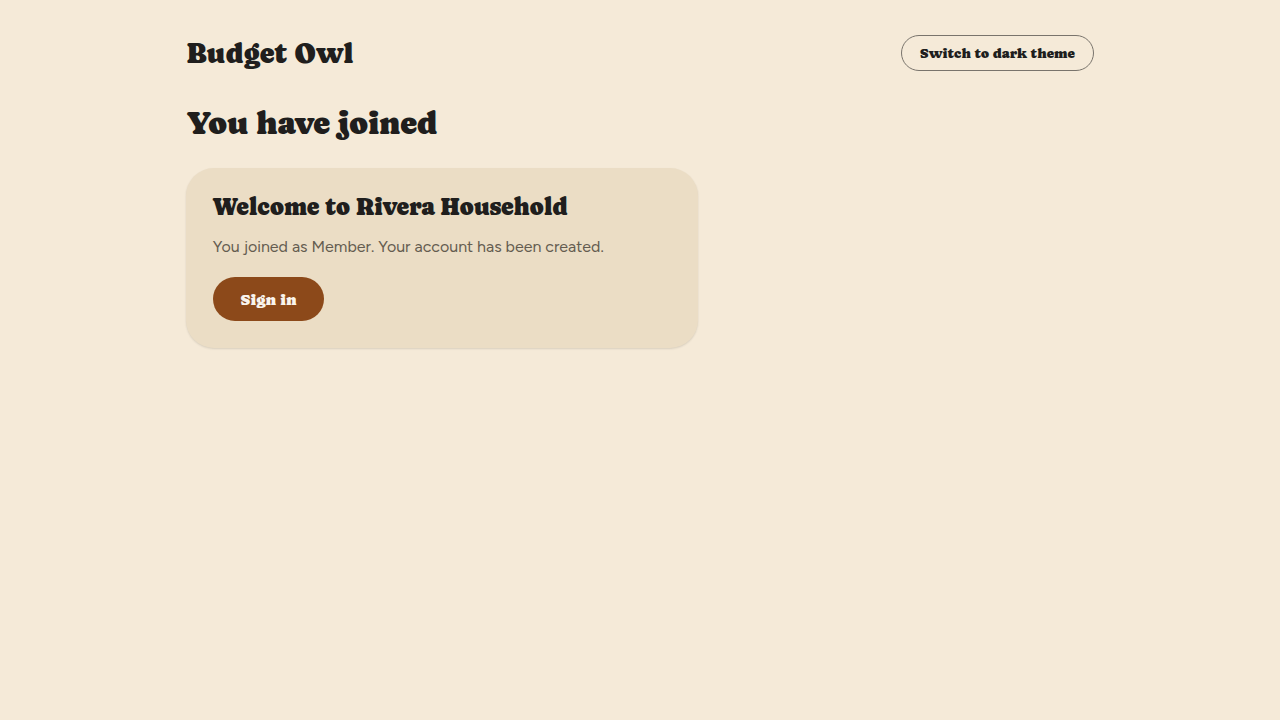
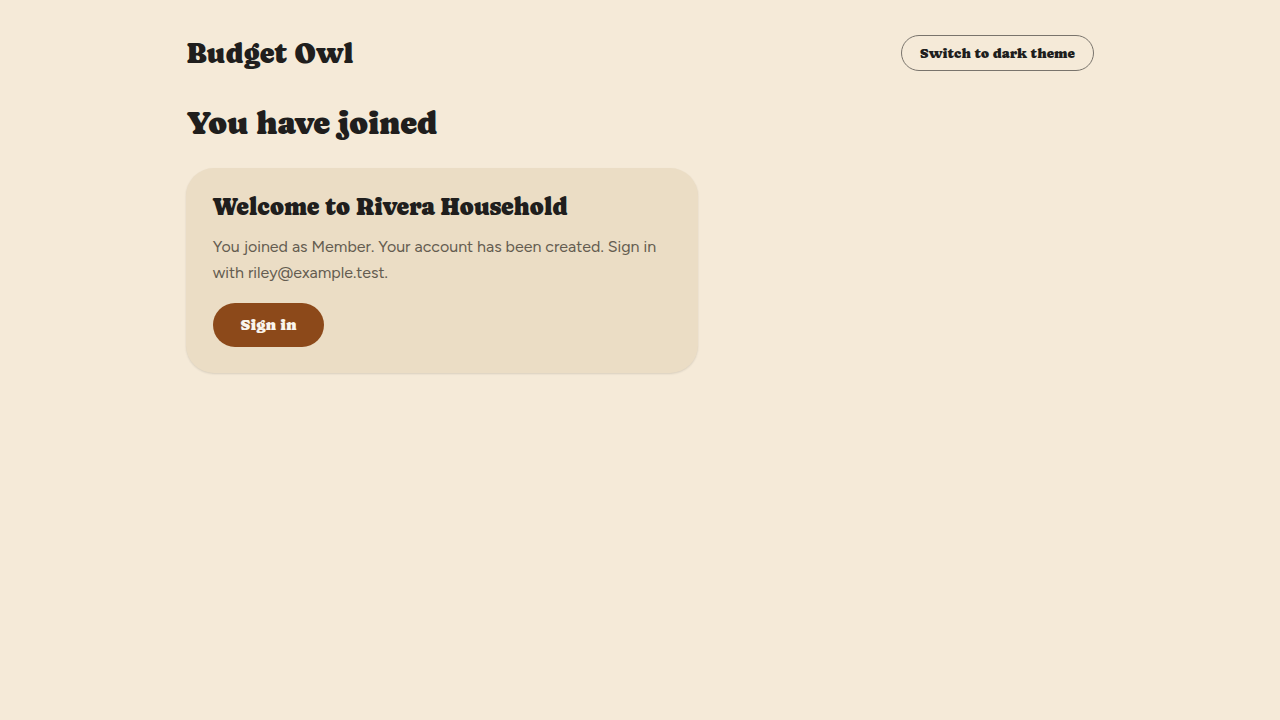
fix(invitations): tell the joiner the address they sign in with
The invite form called the email "just a label ... the link, not the address,
is what lets someone join". Only the second half was true. InvitationService
passes that address straight to register(), so for anyone without an account
it becomes their sign-in identity. A typo therefore created a correctly-working
account at an address its owner had never heard of — and nothing anywhere told
them what it was, because there is no email delivery to tell them.

The user guide had already papered over this: it instructed readers to "ask the
person who invited you which address they typed". Prose apologising for a screen
is a defect report.

So: say what the field does, and return the address on accept. It comes from the
account rather than the invitation, so what the joiner is shown is what actually
signs in. It is disclosed only after a token has been consumed by a successful
accept, which tells a new member their own address and nobody else anything.

Also corrects the UI fixtures' problem-type URLs, still on the old
budgetapp.dev prefix that ApiProblem moved off; the UI matches on `code`,
so this was invisible but wrong.

Claude-Session: https://claude.ai/code/session_01BMPoKK1PtTMREaQDiH8q8J

Changed region(s): [[0.1562, 0.3667, 0.3125, 0.4889], [0.4688, 0.3361, 0.5, 0.3667]]

diff --git a/tools/ui/fixtures/demo-data.ts b/tools/ui/fixtures/demo-data.ts
@@ -162,13 +162,13 @@ export const DEMO_TOKENS = {
 
 /** The RFC 7807 bodies the API sends, by stable code. The client renders the sentence. */
 export const DEMO_PROBLEMS = {
-  authenticationFailed: { type: 'https://budgetapp.dev/errors/authentication-failed', title: 'Authentication failed', status: 401, code: 'authentication-failed', correlationId: 'demo0000000000000000000000000001' },
-  notAuthenticated: { type: 'https://budgetapp.dev/errors/not-authenticated', title: 'Not authenticated', status: 401, code: 'not-authenticated', correlationId: 'demo0000000000000000000000000002' },
-  notAMember: { type: 'https://budgetapp.dev/errors/not-a-member', title: 'Not a member of this household', status: 403, code: 'not-a-member', correlationId: 'demo0000000000000000000000000003' },
-  invitationUnusable: { type: 'https://budgetapp.dev/errors/invitation-unusable', title: 'This invitation cannot be used', status: 404, code: 'invitation-unusable', correlationId: 'demo0000000000000000000000000004' },
-  lastOwner: { type: 'https://budgetapp.dev/errors/last-owner', title: 'A household must keep at least one owner', status: 409, code: 'last-owner', correlationId: 'demo0000000000000000000000000005' },
-  rateLimited: { type: 'https://budgetapp.dev/errors/rate-limited', title: 'Too many attempts', status: 429, code: 'rate-limited', params: { retryAfterSeconds: 120 }, correlationId: 'demo0000000000000000000000000006' },
-  internal: { type: 'https://budgetapp.dev/errors/internal-error', title: 'Internal error', status: 500, code: 'internal-error', correlationId: 'demo0000000000000000000000000007' },
+  authenticationFailed: { type: 'https://budgetowl.app/errors/authentication-failed', title: 'Authentication failed', status: 401, code: 'authentication-failed', correlationId: 'demo0000000000000000000000000001' },
+  notAuthenticated: { type: 'https://budgetowl.app/errors/not-authenticated', title: 'Not authenticated', status: 401, code: 'not-authenticated', correlationId: 'demo0000000000000000000000000002' },
+  notAMember: { type: 'https://budgetowl.app/errors/not-a-member', title: 'Not a member of this household', status: 403, code: 'not-a-member', correlationId: 'demo0000000000000000000000000003' },
+  invitationUnusable: { type: 'https://budgetowl.app/errors/invitation-unusable', title: 'This invitation cannot be used', status: 404, code: 'invitation-unusable', correlationId: 'demo0000000000000000000000000004' },
+  lastOwner: { type: 'https://budgetowl.app/errors/last-owner', title: 'A household must keep at least one owner', status: 409, code: 'last-owner', correlationId: 'demo0000000000000000000000000005' },
+  rateLimited: { type: 'https://budgetowl.app/errors/rate-limited', title: 'Too many attempts', status: 429, code: 'rate-limited', params: { retryAfterSeconds: 120 }, correlationId: 'demo0000000000000000000000000006' },
+  internal: { type: 'https://budgetowl.app/errors/internal-error', title: 'Internal error', status: 500, code: 'internal-error', correlationId: 'demo0000000000000000000000000007' },
 } as const;
 
 export const DEMO_ACCOUNTS = [

diff --git a/frontend/src/app/features/join/pages/join.page.spec.ts b/frontend/src/app/features/join/pages/join.page.spec.ts
@@ -134,7 +134,7 @@ describe('JoinPage', () => {
   it('asks the server to accept with the token from the link, and shows the new member where to go next', async () => {
     const fixture = await render();
     const root = fixture.nativeElement as HTMLElement;
-    accept.mockReturnValue(of({ householdId: 'h', householdName: 'Rivera Household', role: 'MEMBER', userCreated: true }));
+    accept.mockReturnValue(of({ householdId: 'h', householdName: 'Rivera Household', role: 'MEMBER', userCreated: true, email: 'chris@example.com' }));
     typeInto(root, '#join-name', 'Riley Okafor');
     typeInto(root, '#join-password', 'a long fixture passphrase');
 
@@ -144,13 +144,15 @@ describe('JoinPage', () => {
     expect(accept).toHaveBeenCalledWith('tok-123', { displayName: 'Riley Okafor', password: PASSPHRASE });
     expect(root.textContent).toContain('Welcome to Rivera Household');
     expect(root.textContent).toContain('Your account has been created.');
+    // Nothing emails the address to them; this screen is where they learn what to sign in with.
+    expect(root.textContent).toContain('chris@example.com');
     expect(root.querySelector('a[href="/login?reason=joined"]')).not.toBeNull();
     expect(root.textContent).not.toContain('tok-123');
   });
 
   it('lets an existing user accept with both fields empty', async () => {
     const fixture = await render();
-    accept.mockReturnValue(of({ householdId: 'h', householdName: 'Rivera Household', role: 'VIEWER', userCreated: false }));
+    accept.mockReturnValue(of({ householdId: 'h', householdName: 'Rivera Household', role: 'VIEWER', userCreated: false, email: 'chris@example.com' }));
 
     buttonNamed(fixture.nativeElement, 'Accept and join').click();
     await settle(fixture);

diff --git a/tools/ui/helpers/mock-api.ts b/tools/ui/helpers/mock-api.ts
@@ -125,9 +125,9 @@ export async function mockApi(page: Page, options: MockOptions = {}): Promise<Ap
       const token = decodeURIComponent(accept[1]);
       if (token === DEMO_TOKENS.unusable) return problem(route, DEMO_PROBLEMS.invitationUnusable);
       if (token === DEMO_TOKENS.newAccount && !field('password')) {
-        return json(route, 400, { type: 'https://budgetapp.dev/errors/validation-failed', title: 'Validation failed', status: 400, code: 'validation-failed', params: { fields: ['displayName', 'password'] }, correlationId: 'demo0000000000000000000000000008' }, 'application/problem+json');
+        return json(route, 400, { type: 'https://budgetowl.app/errors/validation-failed', title: 'Validation failed', status: 400, code: 'validation-failed', params: { fields: ['displayName', 'password'] }, correlationId: 'demo0000000000000000000000000008' }, 'application/problem+json');
       }
-      return json(route, 200, { householdId: DEMO_HOUSEHOLD.id, householdName: DEMO_HOUSEHOLD.name, role: 'MEMBER', userCreated: Boolean(field('password')) });
+      return json(route, 200, { householdId: DEMO_HOUSEHOLD.id, householdName: DEMO_HOUSEHOLD.name, role: 'MEMBER', userCreated: Boolean(field('password')), email: DEMO_INVITATION.email });
     }
     if (at === 'POST /api/households/current/invitations') {
       return json(route, 201, { ...DEMO_INVITATION, email: field('email') ?? DEMO_INVITATION.email, role: field('role') ?? DEMO_INVITATION.role });

diff --git a/tools/ui/specs/docs/authentication-and-households.spec.ts b/tools/ui/specs/docs/authentication-and-households.spec.ts
@@ -66,7 +66,7 @@ test('@doc sign in, rate limited and expired', async ({ page, doc }) => {
             status: 429,
             contentType: 'application/problem+json',
             headers: { 'Retry-After': '120' },
-            body: JSON.stringify({ type: 'https://budgetapp.dev/errors/rate-limited', title: 'Too many attempts', status: 429, code: 'rate-limited', params: { retryAfterSeconds: 120 }, correlationId: 'demo0000000000000000000000000006' }),
+            body: JSON.stringify({ type: 'https://budgetowl.app/errors/rate-limited', title: 'Too many attempts', status: 429, code: 'rate-limited', params: { retryAfterSeconds: 120 }, correlationId: 'demo0000000000000000000000000006' }),
         }),
     );
     await page.goto('/login');

diff --git a/frontend/src/app/features/join/data/join.models.ts b/frontend/src/app/features/join/data/join.models.ts
@@ -18,4 +18,10 @@ export interface AcceptedInvitation {
   householdName: string;
   role: HouseholdRole;
   userCreated: boolean;
+  /**
+   * The address of the account now in the household. Shown to a joiner who was just registered:
+   * the inviter typed it, nothing emails it to them, so this screen is the only place they learn
+   * what to sign in with.
+   */
+  email: string;
 }

diff --git a/frontend/src/app/features/join/pages/join.page.html b/frontend/src/app/features/join/pages/join.page.html
@@ -12,7 +12,7 @@
       <p class="card-note">
         {{ 'join.joinedRole' | t: { role: (roleKey[done.role] | t) } }}
         @if (done.userCreated) {
-          {{ 'join.joinedAccountCreated' | t }}
+          {{ 'join.joinedAccountCreated' | t: { email: done.email } }}
         }
       </p>
       <a class="btn btn-primary" routerLink="/login" [queryParams]="{ reason: 'joined' }">{{

diff --git a/backend/src/test/java/com/budgetowl/api/InvitationIT.java b/backend/src/test/java/com/budgetowl/api/InvitationIT.java
@@ -69,7 +69,36 @@ class InvitationIT extends ApiTestBase {
         assertThat(response.status()).isEqualTo(200);
         assertThat(response.stringField("role")).isEqualTo("VIEWER");
         assertThat(response.body()).contains("\"userCreated\":true");
-        assertThat(signIn(JOINER_EMAIL, JOINER_SECRET).get("/api/households/current").status())
+
+        // The joiner is told which address to sign in with, and that address is the one that
+        // works. Nothing emails it to them and the inviter typed it, so a response that named a
+        // different address than the account holds would lock out a new member silently.
+        assertThat(response.stringField("email")).isEqualTo(JOINER_EMAIL);
+        assertThat(
+                        signIn(response.stringField("email"), JOINER_SECRET)
+                                .get("/api/households/current")
+                                .status())
+                .isEqualTo(200);
+    }
+
+    @Test
+    void tellsTheJoinerTheAddressTheAccountActuallyHoldsNotTheOneThatWasTyped() {
+        Household household = seedHousehold();
+        String typed = "Chris.Rivera@Example.COM";
+
+        ApiResponse response =
+                acceptInvitation(
+                        invite(household.owner(), typed, "MEMBER"), "Chris", JOINER_SECRET);
+
+        assertThat(response.status()).isEqualTo(200);
+        assertThat(response.stringField("email"))
+                .as("the address read back from the account, whatever case it was typed in")
+                .isEqualTo(typed);
+        assertThat(
+                        signIn(response.stringField("email"), JOINER_SECRET)
+                                .get("/api/households/current")
+                                .status())
+                .as("the address we show has to be one that signs in")
                 .isEqualTo(200);
     }
 

diff --git a/backend/src/main/java/com/budgetowl/household/service/AcceptedInvitation.java b/backend/src/main/java/com/budgetowl/household/service/AcceptedInvitation.java
@@ -9,6 +9,16 @@ import java.util.UUID;
  * <p>No session and no token comes back with it. Accepting a link proves possession of the link,
  * not of the account, so the new member signs in afterwards like anybody else — an invitation that
  * also handed out a credential would turn a forwarded link into an account takeover.
+ *
+ * <p>{@code email} is the address of the account now in the household, read back from the account
+ * rather than from the invitation. A joiner who has just been registered has no other way to learn
+ * what to sign in with: the inviter typed the address, normalisation may have changed it, and there
+ * is no email delivery to tell them. Returning it only here — after a token has been consumed by a
+ * successful accept — tells the new member their own address and nobody else anything.
  */
 public record AcceptedInvitation(
-        UUID householdId, String householdName, HouseholdRole role, boolean userCreated) {}
+        UUID householdId,
+        String householdName,
+        HouseholdRole role,
+        boolean userCreated,
+        String email) {}

diff --git a/backend/src/main/java/com/budgetowl/household/web/HouseholdResponses.java b/backend/src/main/java/com/budgetowl/household/web/HouseholdResponses.java
@@ -68,5 +68,9 @@ public final class HouseholdResponses {
      * link, not of the account, so they sign in afterwards like anybody else.
      */
     public record AcceptInvitationResponse(
-            UUID householdId, String householdName, HouseholdRole role, boolean userCreated) {}
+            UUID householdId,
+            String householdName,
+            HouseholdRole role,
+            boolean userCreated,
+            String email) {}
 }

diff --git a/backend/src/main/java/com/budgetowl/household/service/InvitationService.java b/backend/src/main/java/com/budgetowl/household/service/InvitationService.java
@@ -209,7 +209,8 @@ public class InvitationService {
                 invitationId,
                 joiningId,
                 existing.isEmpty());
-        return new AcceptedInvitation(household.id(), household.name(), role, existing.isEmpty());
+        return new AcceptedInvitation(
+                household.id(), household.name(), role, existing.isEmpty(), joining.email());
     }
 
     /**

diff --git a/backend/src/main/java/com/budgetowl/household/web/InvitationController.java b/backend/src/main/java/com/budgetowl/household/web/InvitationController.java
@@ -91,6 +91,7 @@ public class InvitationController {
                 accepted.householdId(),
                 accepted.householdName(),
                 accepted.role(),
-                accepted.userCreated());
+                accepted.userCreated(),
+                accepted.email());
     }
 }

diff --git a/userguide/features/invite-someone.md b/userguide/features/invite-someone.md
@@ -35,10 +35,11 @@ as well, especially if you are not the person who runs the server.
 
 2. Enter their email address in **Their email address**.
 
-   Enter the address they will sign in with. The screen calls this address a label — it is not
-   what lets them in; the link does that. But if they do not already have an account on your
-   server, their new account is created with this address, so type it carefully. If they already
+   Enter the address they will sign in with. If they do not already have an account on your
+   server, their new account is created with this address — so type it carefully. If they already
    have an account, use the address of that account.
+
+   The link, not the address, is what lets them in. The address decides who they become.
 
 3. Choose their role under **Their role**.
 
